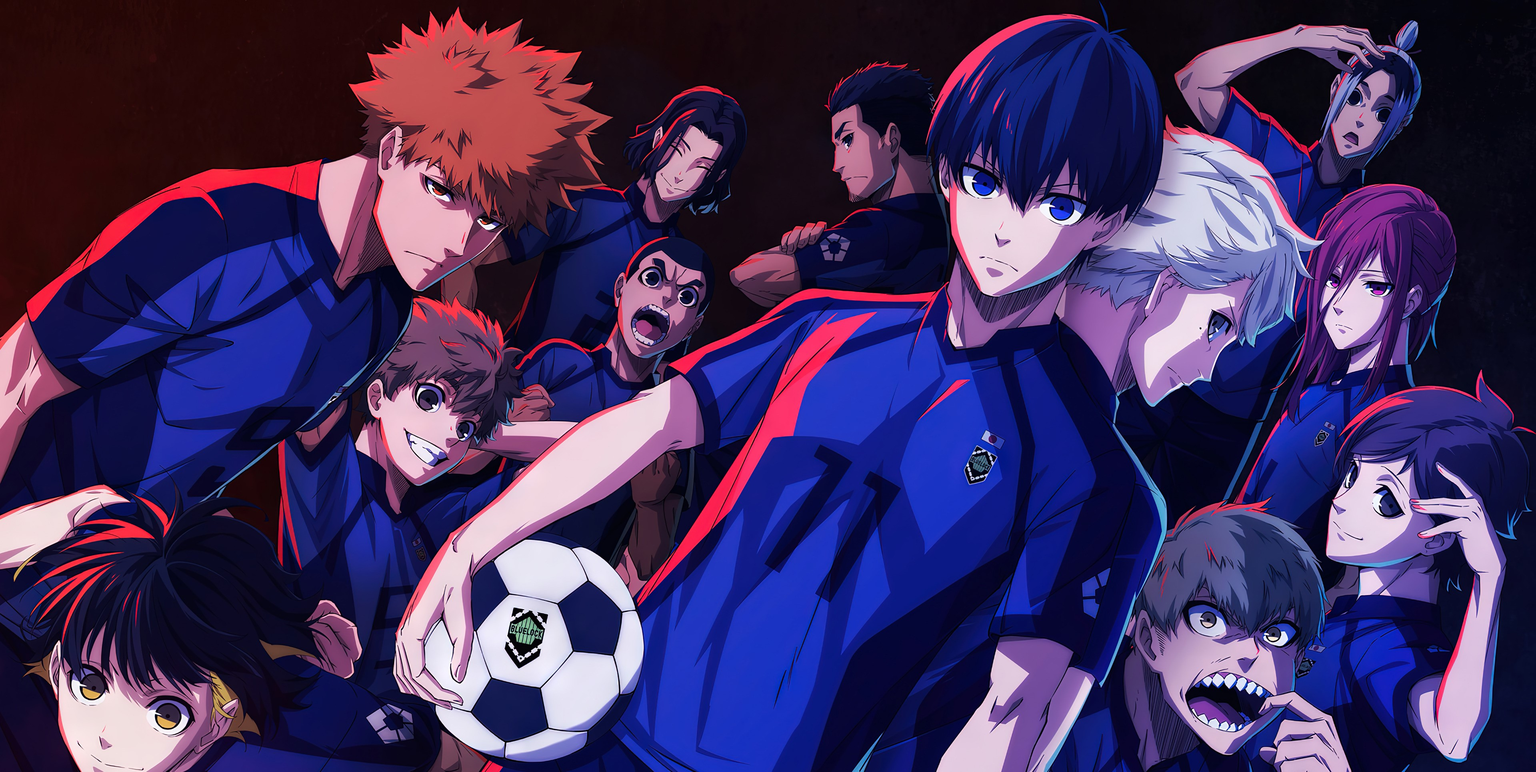
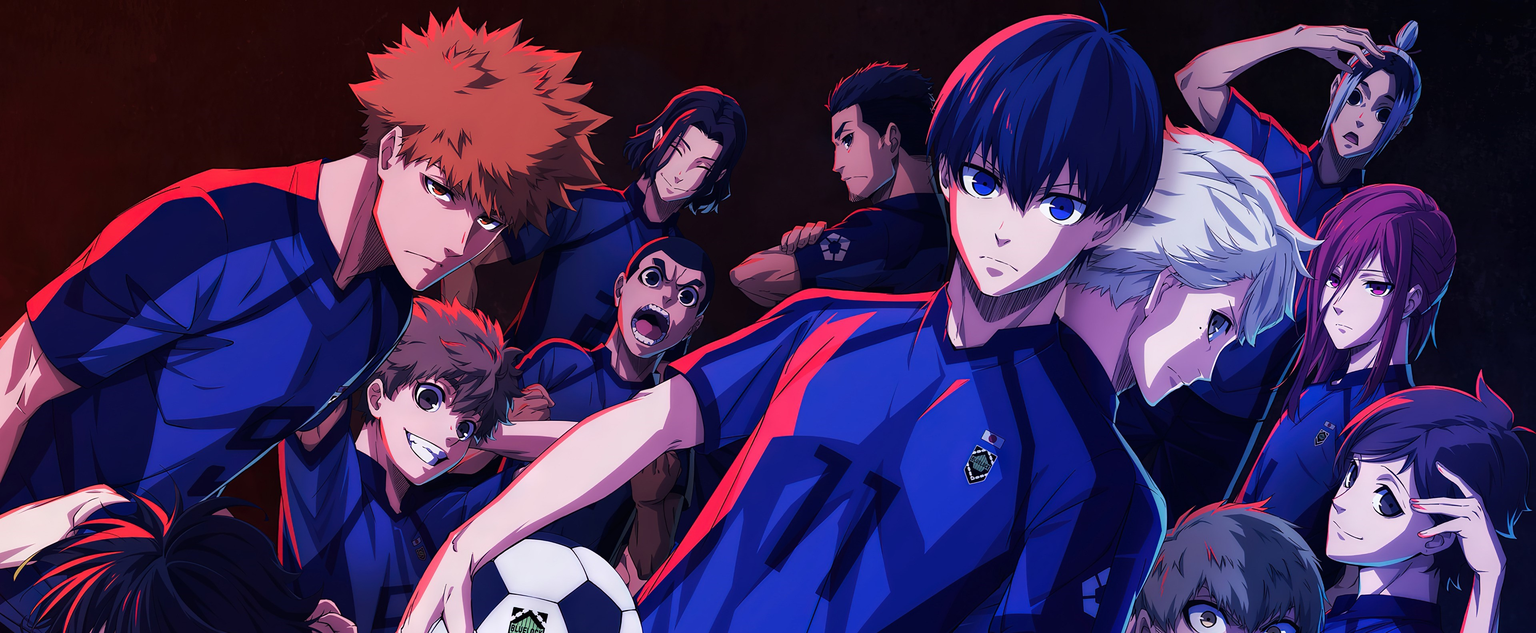
Little fix

diff --git a/gsoc24-first-blog/index.html b/gsoc24-first-blog/index.html
@@ -23,7 +23,7 @@
         background-image: url("assets/img/hero-bg.jpg");
         background-size: cover;
         background-position: center;
-        height: 650px;
+        height: 400px;
         text-align: center;
         display: flex;
         align-items: center;
